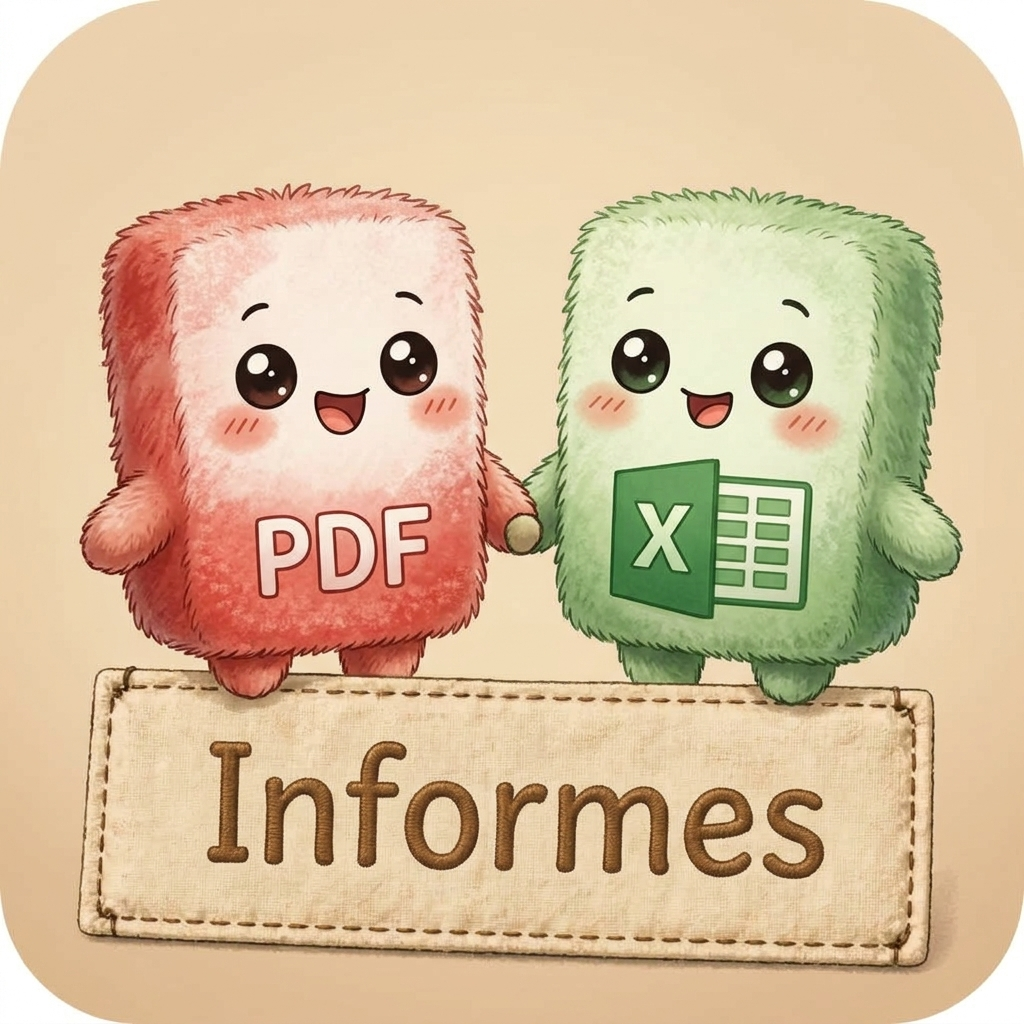
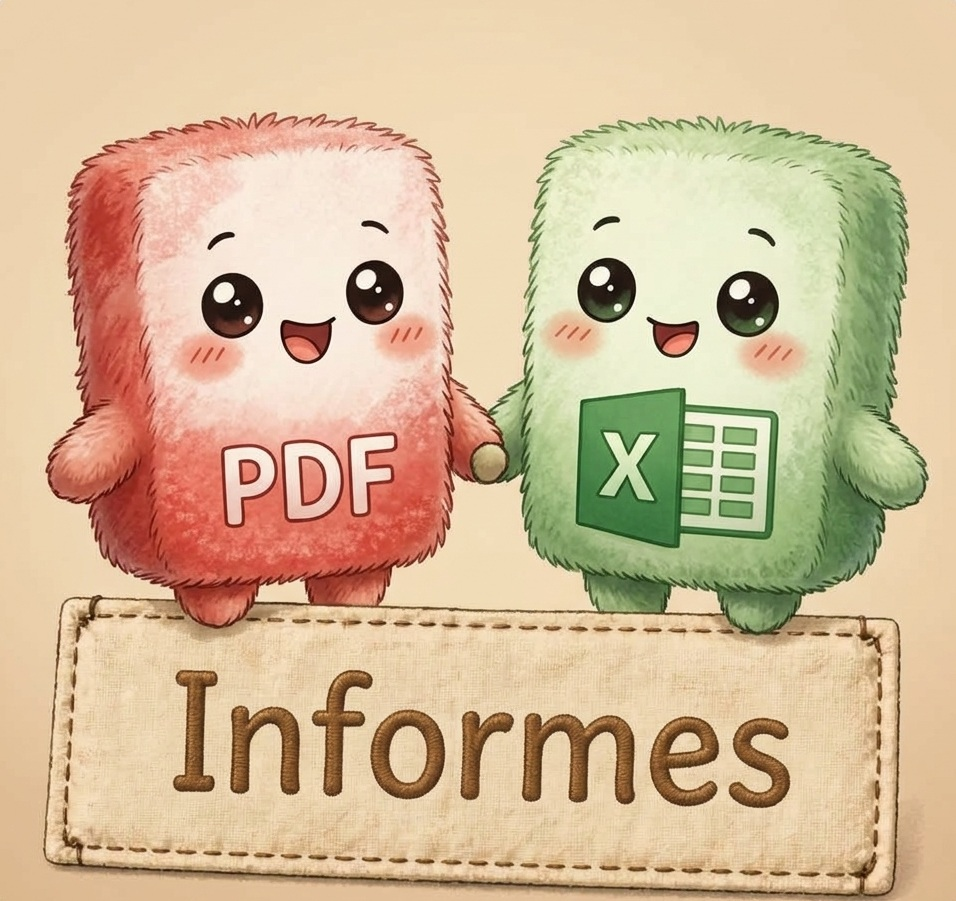
fix(objetos): boton de informes con /informes.jpg al 100% y sin restos de boton nativo
- ASSET_INFORMES pasa de /informes.webp a /informes.jpg (frontend/public/informes.jpg, 956x901) para que la ilustracion renderice si o si en cualquier WebView y en instalaciones con cache vieja del Service Worker.

- El trigger de ModalExportarDatos.astro pierde todo resto visual: bloque <style> propio con background: transparent, border: none, padding: 0 y la imagen con width: 100% + height: auto. Misma escala responsiva que los demas botones ilustrados de la barra (96/128/144 px).

- sw.js: precache espeja el nuevo asset y CACHE_VERSION sube a 19 para forzar la descarga del boton nuevo.

diff --git a/frontend/src/lib/assetsUi.ts b/frontend/src/lib/assetsUi.ts
@@ -9,11 +9,13 @@
 // OPTIMIZACIÓN (assets WebP redimensionados al tamaño real de renderizado):
 //   · Los originales eran PNG/JPG de 1254x1254 a 1680x1527 (175 KB a 3,4 MB
 //     cada uno) dibujados a 48-144 px en pantalla.
-//   · Ahora son WebP de lado mayor 128 px (entre 1 y 5 KB cada uno). Las
-//     ilustraciones de la barra de acciones (botón QR y botón de informes) van
-//     a 288 px de lado mayor (~15-27 KB) porque se pintan hasta 144 px y
-//     necesitan nitidez en pantallas de 2x. La única excepción es el fondo de la
-//     cómoda del login —se pinta a 420 px de ancho— que va a 768 px (~17 KB).
+//   · Ahora son WebP de lado mayor 128 px (entre 1 y 5 KB cada uno). La
+//     ilustración del botón QR de la barra de acciones va a 288 px de lado mayor
+//     (~27 KB) porque se pinta hasta 144 px y necesita nitidez en pantallas de
+//     2x. Excepciones: el fondo de la cómoda del login —se pinta a 420 px de
+//     ancho— va a 768 px (~17 KB), y el botón de informes se sirve en JPG
+//     (956x901, 345 KB) por compatibilidad de renderizado en WebView (ver
+//     ASSET_INFORMES más abajo).
 //   · Viven en frontend/public/ y están en la lista de precache del Service
 //     Worker (frontend/public/sw.js). Si agregás o renombrás uno, actualizá LOS
 //     DOS lugares y subí CACHE_VERSION en sw.js.
@@ -44,8 +46,15 @@ export const ASSET_MUDANZA = '/mudanza.webp';
  */
 export const ASSET_BOTON_QR = '/boton-qr.webp';
 
-/** Trigger «Exportar Datos / Informe» (antes /informes.jpg, 1024x1024 y 660 KB). Render: 96-144 px. */
-export const ASSET_INFORMES = '/informes.webp';
+/**
+ * Trigger «Exportar Datos / Informe» de la barra de acciones (Objetos).
+ * Se sirve en JPG a propósito: es el único formato que renderiza de forma
+ * garantizada en todos los WebView (TWA/PWABuilder, Capacitor, Safari iOS) y en
+ * las instalaciones donde la caché del Service Worker conservó la versión
+ * anterior del botón. Pesa 345 KB a 956x901, pero se pinta a 96-144 px: el
+ * navegador lo decodifica una sola vez y queda cacheado. Render: 96-144 px.
+ */
+export const ASSET_INFORMES = '/informes.jpg';
 
 /** Botón «Nueva ubicación» del plano elástico (antes /nueva ubicacion.png). Render: 76 px. */
 export const ASSET_NUEVA_UBICACION = '/nueva-ubicacion.webp';

diff --git a/frontend/public/sw.js b/frontend/public/sw.js
@@ -15,7 +15,7 @@
 // en el frontend. Esto fuerza al browser a detectar un nuevo Service Worker
 // y descargar los assets frescos desde la red.
 // =============================================================================
-const CACHE_VERSION = 18;
+const CACHE_VERSION = 19;
 const CACHE_NAME = 'estok-cache-v' + CACHE_VERSION;
 
 // =============================================================================
@@ -25,7 +25,8 @@ const CACHE_NAME = 'estok-cache-v' + CACHE_VERSION;
 // asset de interfaz, actualizá los DOS archivos y subí CACHE_VERSION.
 // Son WebP ya redimensionados al tamaño real de renderizado (lado mayor 128 px,
 // salvo el fondo de la cómoda del login a 768 px de ancho), así que pesan entre
-// 1 y 17 KB en vez de los 175 KB a 3,4 MB de los PNG/JPG originales.
+// 1 y 17 KB en vez de los 175 KB a 3,4 MB de los PNG/JPG originales. La ÚNICA
+// excepción es el botón de informes, que se sirve en JPG (ver nota abajo).
 // =============================================================================
 const UI_ASSETS = [
   '/nuevo-objeto.webp',
@@ -37,7 +38,9 @@ const UI_ASSETS = [
   '/fluffy-objeto.webp',
   '/nueva-ubicacion.webp',
   '/boton-qr.webp',
-  '/informes.webp',
+  // El botón de informes viaja en JPG (no WebP) para que renderice en todos los
+  // WebView; ver la nota de ASSET_INFORMES en src/lib/assetsUi.ts.
+  '/informes.jpg',
   '/login-comoda.webp',
 ];
 
